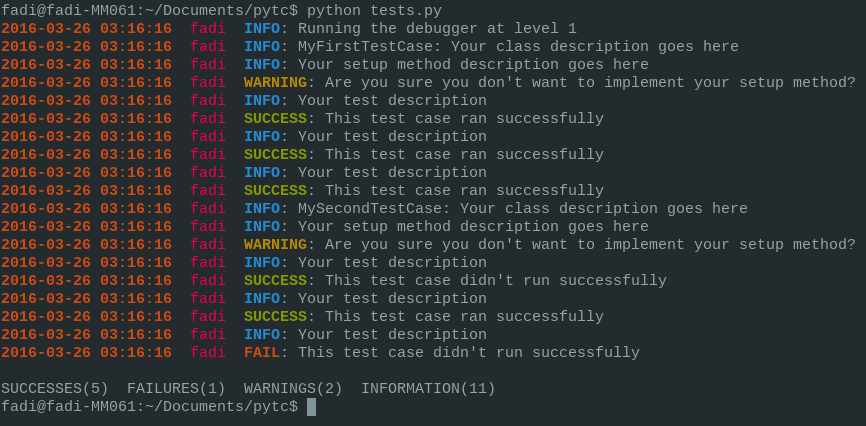
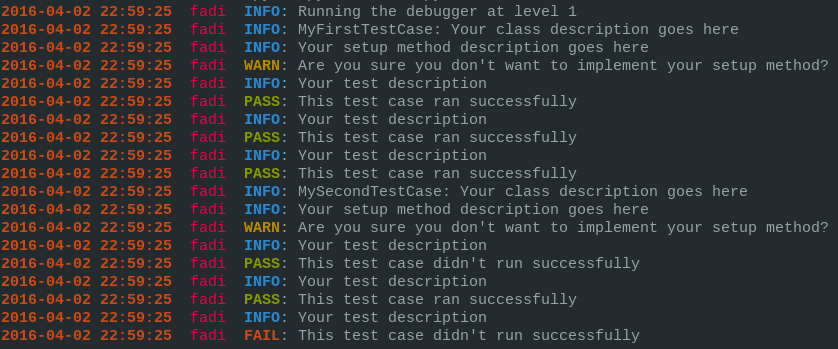
.

Changed region(s): [[0.0, 0.0, 0.9928, 0.9742]]

diff --git a/pytc/logger.py b/pytc/logger.py
@@ -27,13 +27,13 @@ class ColorfulText:
         END = "\033[0m"
 
     def success(self, message):
-        return "%s%sSUCCESS%s: %s%s" % (self.Colors.GREEN, self.TextStyle.BOLD, self.TextStyle.END, message, self.Colors.END)
+        return "%s%sPASS%s: %s%s" % (self.Colors.GREEN, self.TextStyle.BOLD, self.TextStyle.END, message, self.Colors.END)
 
     def info(self, message):
         return "%s%sINFO%s: %s%s" % (self.Colors.BLUE, self.TextStyle.BOLD, self.TextStyle.END, message, self.Colors.END)
 
     def warning(self, message):
-        return "%s%sWARNING%s: %s%s" % (self.Colors.YELLOW, self.TextStyle.BOLD, self.TextStyle.END, message, self.Colors.END)
+        return "%s%sWARN%s: %s%s" % (self.Colors.YELLOW, self.TextStyle.BOLD, self.TextStyle.END, message, self.Colors.END)
 
     def fail(self, message):
         return "%s%sFAIL%s: %s%s" % (self.Colors.RED, self.TextStyle.BOLD, self.TextStyle.END, message, self.Colors.END)
